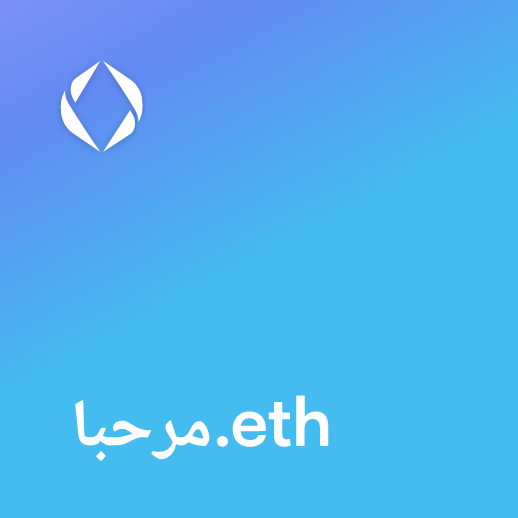
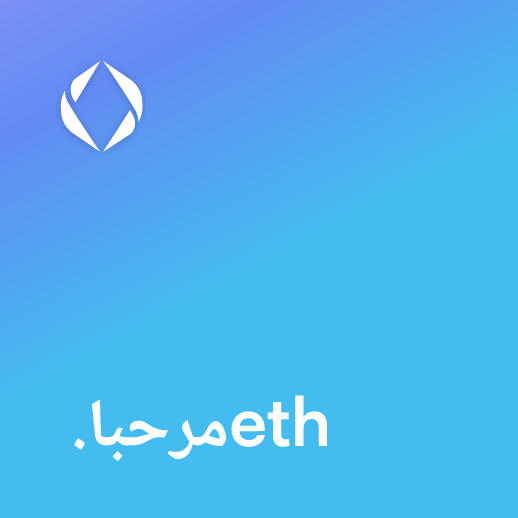
fix arabic/hebrew word order in text-to-path conversion

Changed region(s): [[0.1236, 0.7722, 0.6486, 0.8958]]

diff --git a/src/renderers/text-processor.js b/src/renderers/text-processor.js
@@ -146,6 +146,14 @@ async function prefetchEmoji(chars) {
  * Segment text into runs by font (emoji, international, primary, fallback).
  * Each run is { type: 'emoji'|'text'|'fallback', chars: string, font: fontObj|null, graphemes: [] }
  */
+/**
+ * Check if a character is script-neutral (space, punctuation, digits).
+ * Neutral chars should inherit the font of the surrounding script run.
+ */
+function isNeutralChar(grapheme) {
+    return /^[\s\d\p{P}\p{S}]*$/u.test(grapheme) && !/[\u0600-\u06FF\u0590-\u05FF]/.test(grapheme);
+}
+
 function segmentByFont(graphemes, primaryFont, internationalFonts, fallbackFont, emojiCache, enableEmoji) {
     const runs = [];
     let currentRun = null;
@@ -175,6 +183,12 @@ function segmentByFont(graphemes, primaryFont, internationalFonts, fallbackFont,
         const scriptFont = resolveInternationalFont(grapheme, internationalFonts);
         let font = scriptFont || primaryFont;
         if (!font && fallbackFont) font = fallbackFont;
+
+        // Neutral chars (space, punctuation) inherit the current run's font
+        // so they don't break script runs (important for Arabic/Hebrew shaping)
+        if (!scriptFont && currentRun && currentRun.type === 'text' && isNeutralChar(grapheme)) {
+            font = currentRun.font;
+        }
 
         if (!font) {
             // No font available — use <text> fallback
